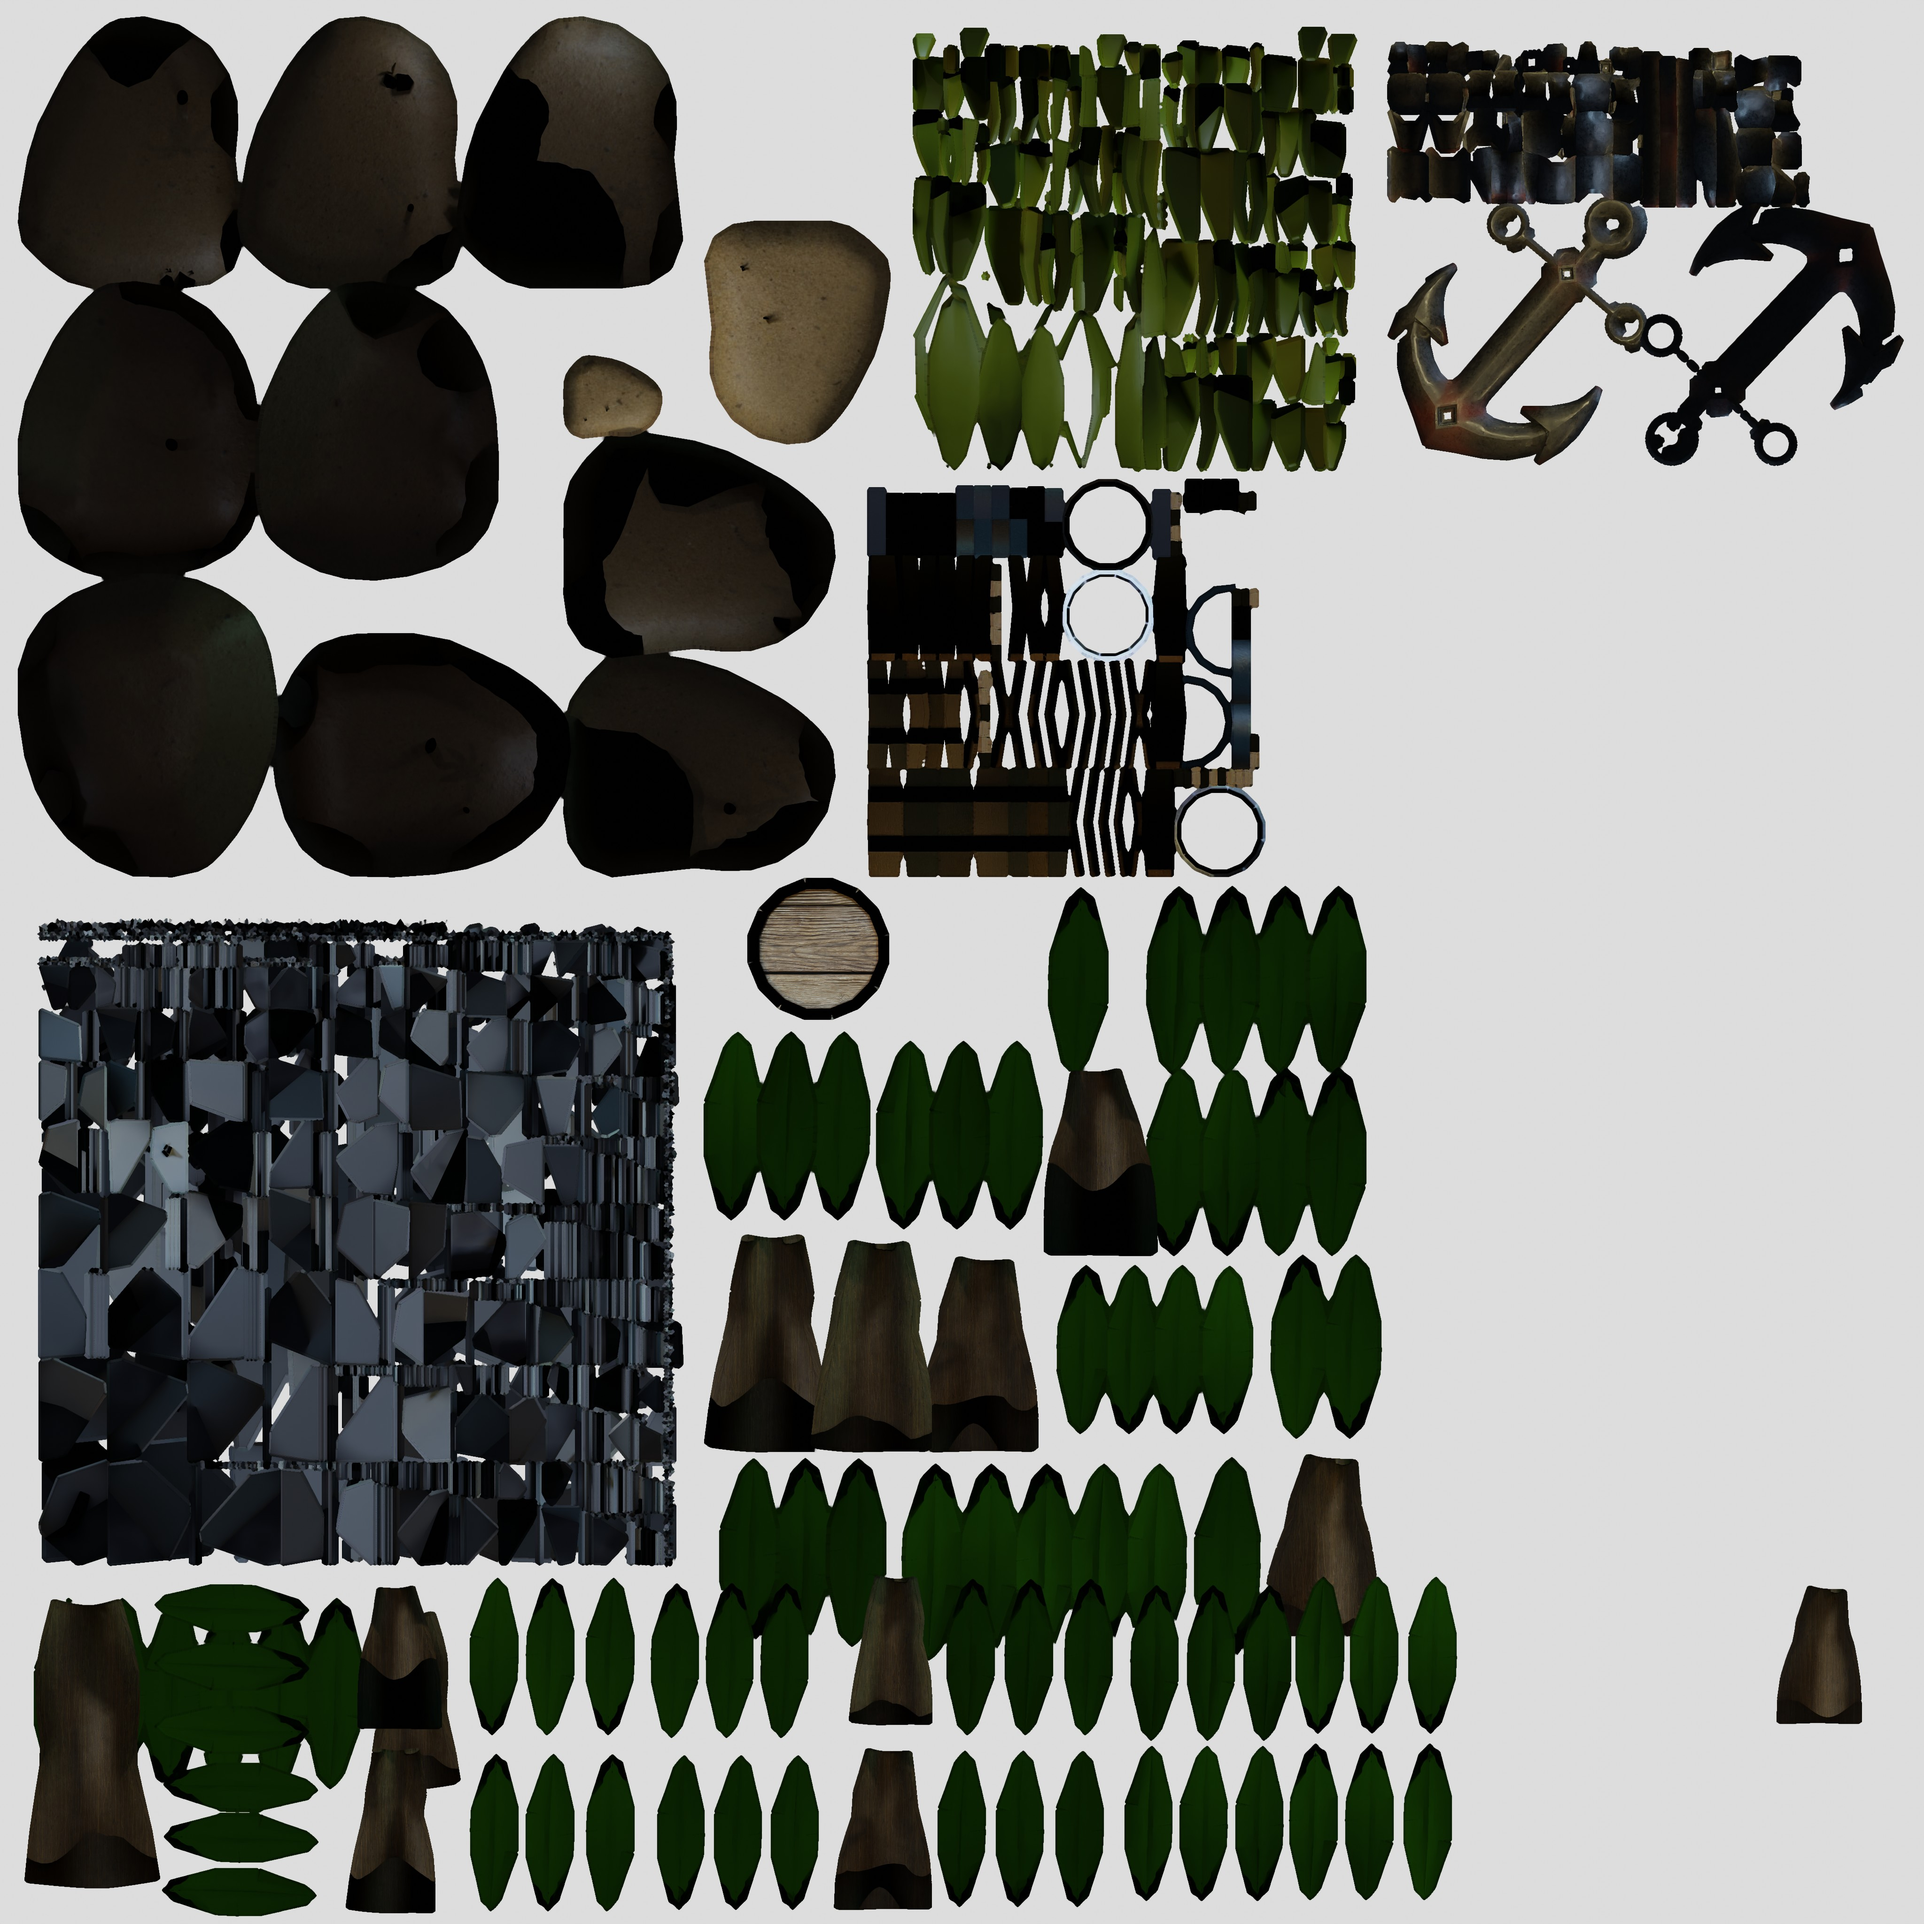
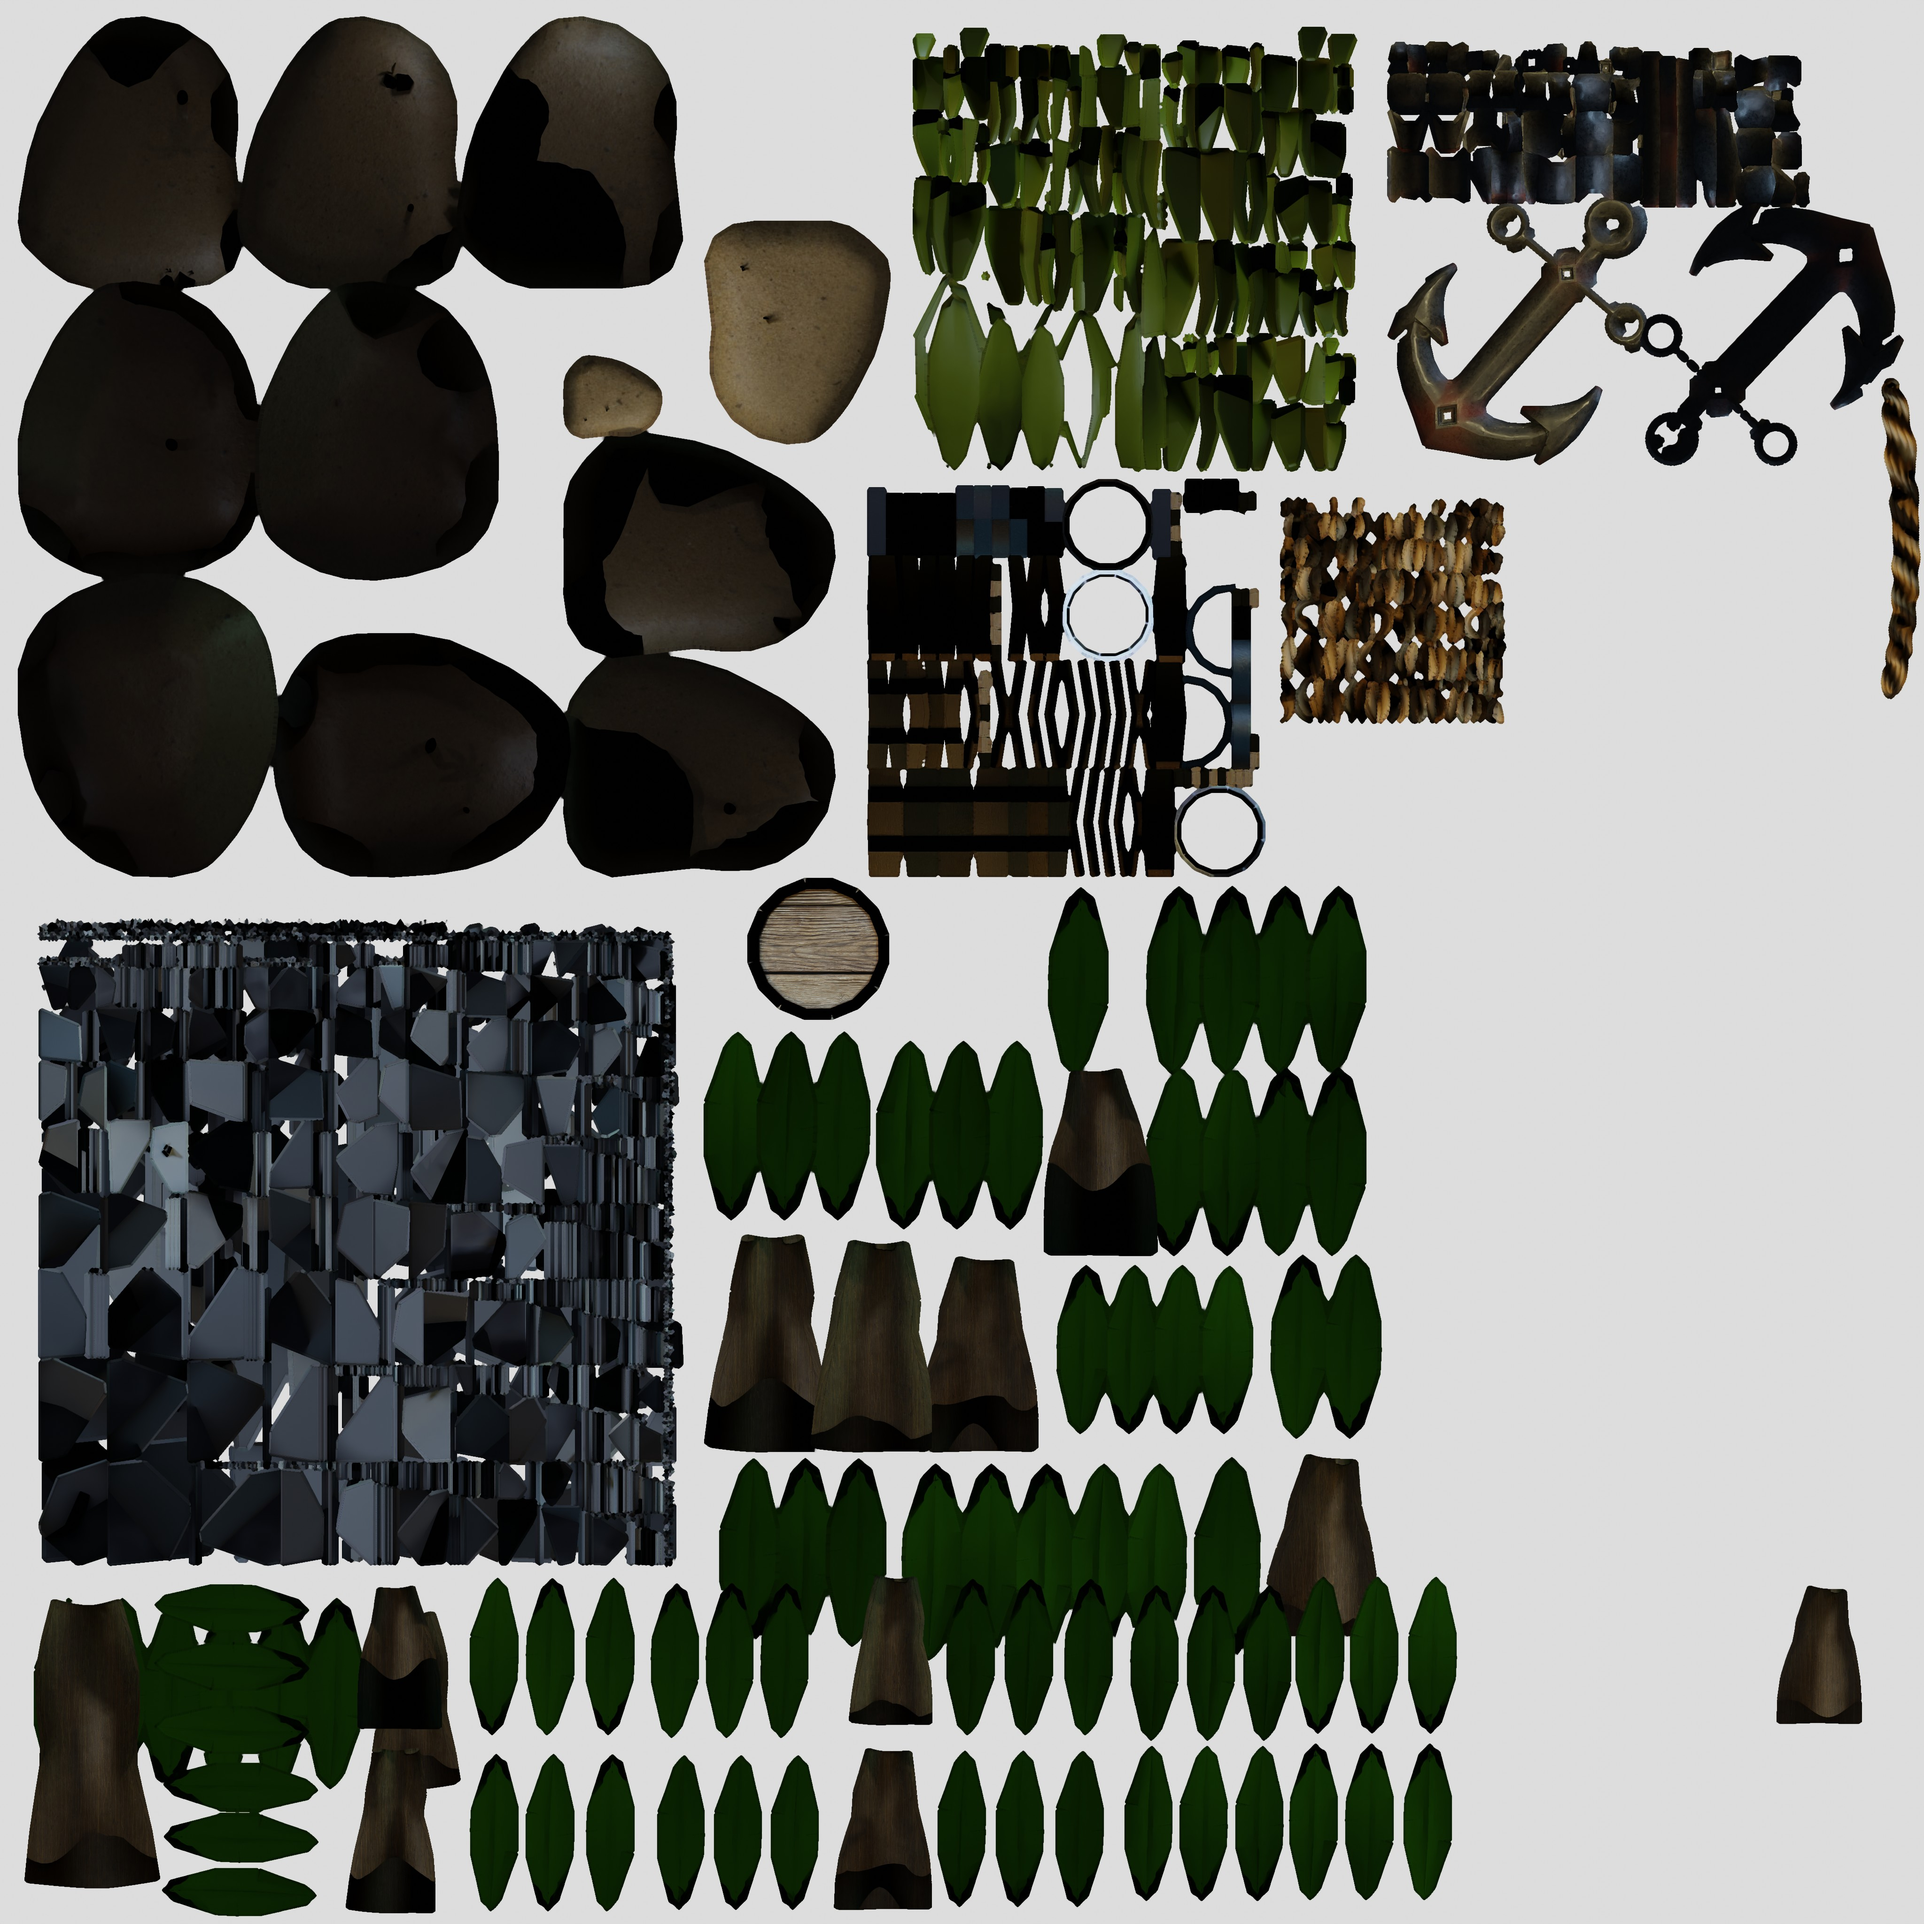
add anchor details

Changed region(s): [[0.6562, 0.25, 0.7812, 0.375], [0.9688, 0.1875, 1.0, 0.375]]

diff --git a/src/Experience.jsx b/src/Experience.jsx
@@ -15,15 +15,10 @@ import Miscellaneous from "./Miscellaneous";
 import Background from "./Background";
 import { useFrame } from "@react-three/fiber";
 import { easing } from "maath";
-import {
-  EffectComposer,
-  Bloom,
-  DepthOfField,
-  Vignette,
-} from "@react-three/postprocessing";
 import WaterBg from "./WaterBg";
 import Flag from "./Flag";
 import Deep from "./Deep";
+import Effect from "./Effect";
 
 export default function Experience() {
   return (
@@ -35,23 +30,8 @@ export default function Experience() {
       <ScrollControls pages={10}>
         <PirateScene />
         {/* Postprocessing */}
-        <EffectComposer disableNormalPass>
-          <Vignette offset={0.3} darkness={0.9} />
-          <Bloom
-            luminanceThreshold={0}
-            mipmapBlur
-            luminanceSmoothing={0.2}
-            intensity={0.1}
-          />
-          {/*
-          <DepthOfField
-          target={[blur.x, blur.y, blur.z]}
-          focalLength={0.025}
-          focusDistance={0.025}
-          bokehScale={5}
-          />
-        */}
-        </EffectComposer>
+        <Effect />
+        {/* STARTS */}
         <Sparkles
           size={2.5}
           speed={0}
@@ -124,7 +104,7 @@ function CameraRig() {
       delta
     );
     offset < 0.3
-      ? state.camera.lookAt(1, 0.2, 0)
+      ? state.camera.lookAt(1, -0.1, 0)
       : state.camera.lookAt(1, offset * pages * -0.7, 0);
   });
 }

diff --git a/src/Moon.jsx b/src/Moon.jsx
@@ -6,24 +6,24 @@ import * as THREE from "three";
 import { useRef } from "react";
 
 const MoonMaterial = shaderMaterial(
-	{
-		uMoonColor: new THREE.Color("#f7f6eb"),
-	},
-	moonBgVertexShader,
-	moonFragmentShader
+  {
+    uMoonColor: new THREE.Color("#f7f6eb"),
+  },
+  moonBgVertexShader,
+  moonFragmentShader
 );
 
 extend({ MoonMaterial });
 
 const WaterBg = () => {
-	const moonMaterial = useRef();
+  const moonMaterial = useRef();
 
-	return (
-		<mesh rotation-y={Math.PI * 0.25} position={[-4, -0.55, -2]}>
-			<planeGeometry args={[1.5, 1.5, 1, 1]} />
-			<moonMaterial ref={moonMaterial} transparent />
-		</mesh>
-	);
+  return (
+    <mesh rotation-y={Math.PI * 0.25} position={[-3.9, -0.55, -2]}>
+      <planeGeometry args={[1.5, 1.5, 1, 1]} />
+      <moonMaterial ref={moonMaterial} transparent />
+    </mesh>
+  );
 };
 
 export default WaterBg;

diff --git a/src/Deep.jsx b/src/Deep.jsx
@@ -4,13 +4,13 @@ const Deep = () => {
   const { nodes } = useGLTF("./model/pirate.glb");
   const anchorBaked = useTexture("./model/bg-baked.jpg");
   anchorBaked.flipY = false;
-  console.log(nodes.anchor.geometry, anchorBaked);
+
   return (
     <>
       {/* ANCHOR */}
 
       <mesh
-        geometry={nodes.anchor.geometry}
+        geometry={nodes.bakedAnchor.geometry}
         position={[-1.5, -0.5, 1]}
         rotation-y={Math.PI * 0.8}
       >

diff --git a/src/Effect.jsx b/src/Effect.jsx
@@ -1,0 +1,17 @@
+import { EffectComposer, Bloom, Vignette } from "@react-three/postprocessing";
+
+const Effect = () => {
+  return (
+    <EffectComposer disableNormalPass>
+      <Vignette offset={0.3} darkness={0.9} />
+      <Bloom
+        luminanceThreshold={0}
+        mipmapBlur
+        luminanceSmoothing={0.2}
+        intensity={0.1}
+      />
+    </EffectComposer>
+  );
+};
+
+export default Effect;
